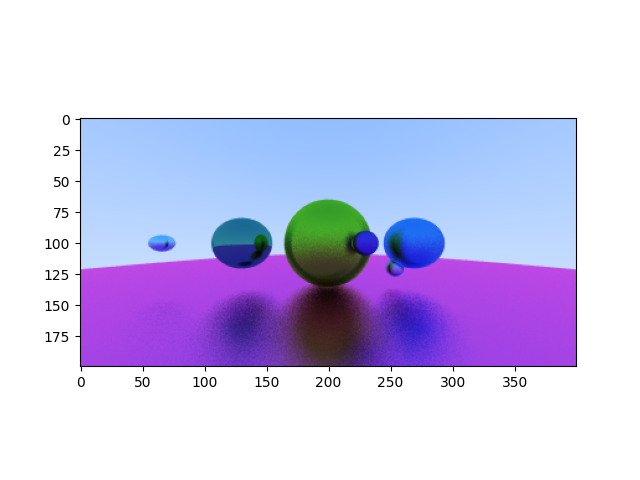
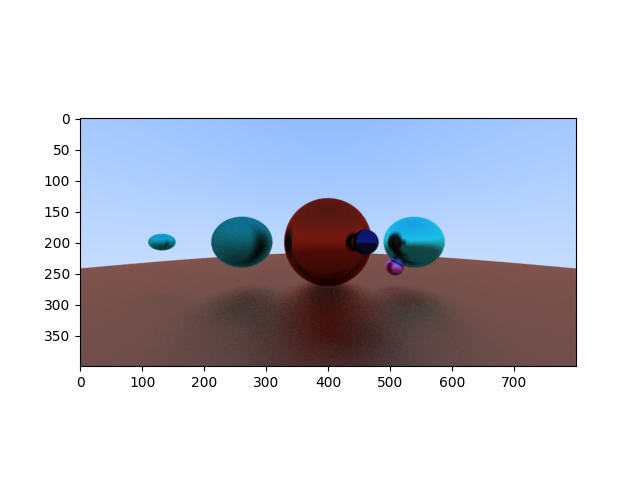
add camera parameters

diff --git a/python/rt/rt_vectorized/__init__.py b/python/rt/rt_vectorized/__init__.py
@@ -6,8 +6,6 @@ from typing import Annotated, Literal
 from attrs import frozen, field
 from loguru import logger
 
-width = 400
-height = 200
 
 Vector3 = Annotated[npt.NDArray[np.float64], Literal[3]]
 
@@ -52,7 +50,7 @@ class Camera:
         # normalization
         directions /= np.sqrt(np.einsum("ij, ij -> i", directions, directions))[:, np.newaxis]
 
-        return Rays(np.zeros((width * height, 3)), directions)
+        return Rays(np.zeros((self.width * self.height, 3)), directions)
 
     def write_png(self):
         logger.info("pass #1")
@@ -64,7 +62,7 @@ class Camera:
             env += hit(rays, self.scene)
         env = env / self.jitter_passes
         plt.figure()
-        plt.imshow(np.swapaxes(env.reshape(width, height, 3), 0, 1))
+        plt.imshow(np.swapaxes(env.reshape(self.width, self.height, 3), 0, 1))
         plt.savefig("test.png")
 
 
@@ -91,8 +89,8 @@ class SceneBuilder:
             np.array(self.colors)
         )
 
-    def camera(self) -> Camera:
-        return Camera(self.create(), jitter_passes=64)
+    def camera(self, width=400, height=200) -> Camera:
+        return Camera(self.create(), jitter_passes=64, width=width, height=height)
 
 
 def normalize(vector_batch: npt.NDArray) -> npt.NDArray:
@@ -100,14 +98,12 @@ def normalize(vector_batch: npt.NDArray) -> npt.NDArray:
 
 
 def random_in_unit_sphere(dim: int) -> npt.NDArray:
-    # init
     lengths = (np.random.random(size=dim) ** (1/3))[:, np.newaxis]
     u = np.random.random(size=dim)
     v = np.random.random(size=dim)
     ex = np.array([np.ones(dim), np.zeros(dim), np.zeros(dim)]).T
     ey = np.array([np.zeros(dim), np.ones(dim), np.zeros(dim)]).T
     ez = np.array([np.zeros(dim), np.ones(dim), np.zeros(dim)]).T
-
     theta = 2 * np.pi * u
     phi = np.arccos(2 * v - 1)
     sin_phi = np.sin(phi)[:, np.newaxis]
